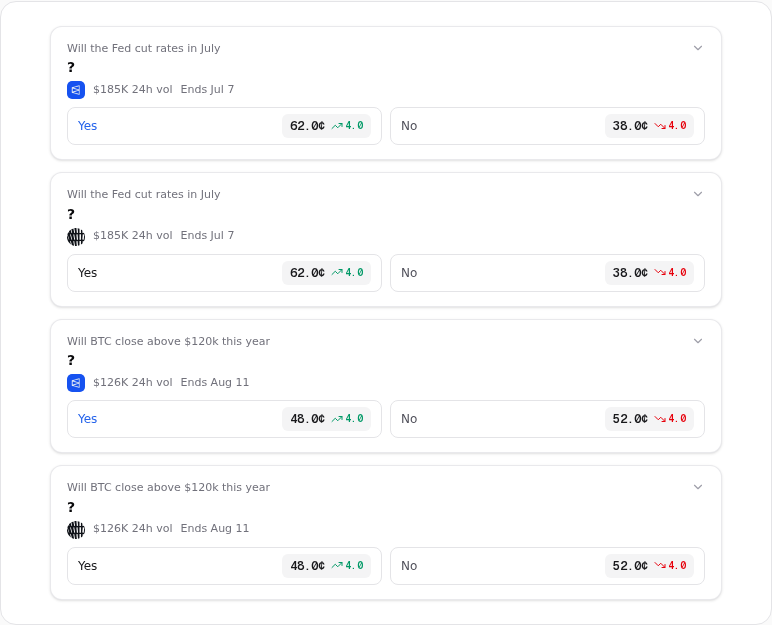
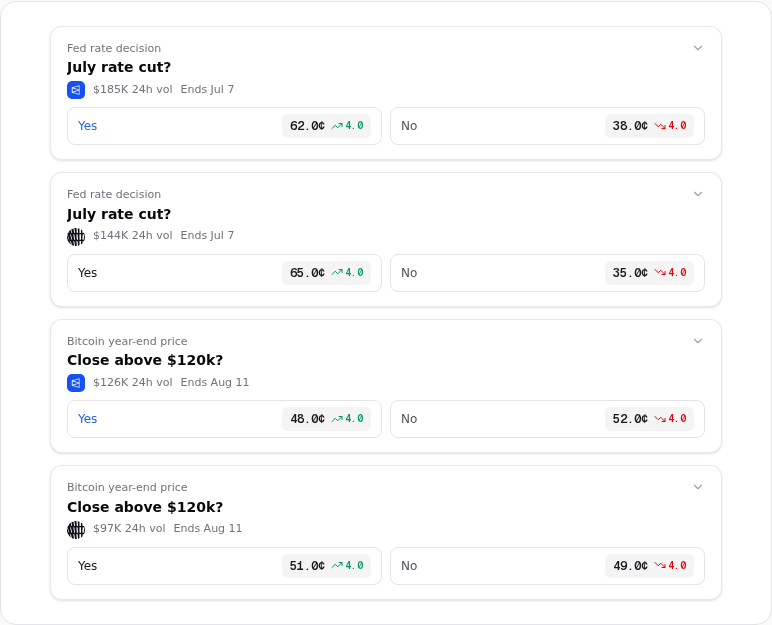
docs: diversify widget screenshots (#4)

diff --git a/README.md b/README.md
@@ -11,13 +11,13 @@ React widgets that let your users discover prediction markets and trade them ins
 
 These are the actual embeddable widgets, cropped out of the demo app.
 
-| Market search | Top markets |
+| Top markets | Price chart |
 | --- | --- |
-| ![Market Search widget](docs/screenshots/market-search-widget.png) | ![Top Markets widget](docs/screenshots/top-markets-widget.png) |
+| ![Top Markets widget](docs/screenshots/top-markets-widget.png) | ![Price Chart widget](docs/screenshots/price-chart-widget.png) |
 
-| Market card | Order ticket |
+| Order book | Order ticket |
 | --- | --- |
-| ![Market Card widget](docs/screenshots/market-card-widget.png) | ![Order Ticket widget](docs/screenshots/order-ticket-widget.png) |
+| ![Order Book widget](docs/screenshots/order-book-widget.png) | ![Order Ticket widget](docs/screenshots/order-ticket-widget.png) |
 
 ## Get started in 5 minutes
 
